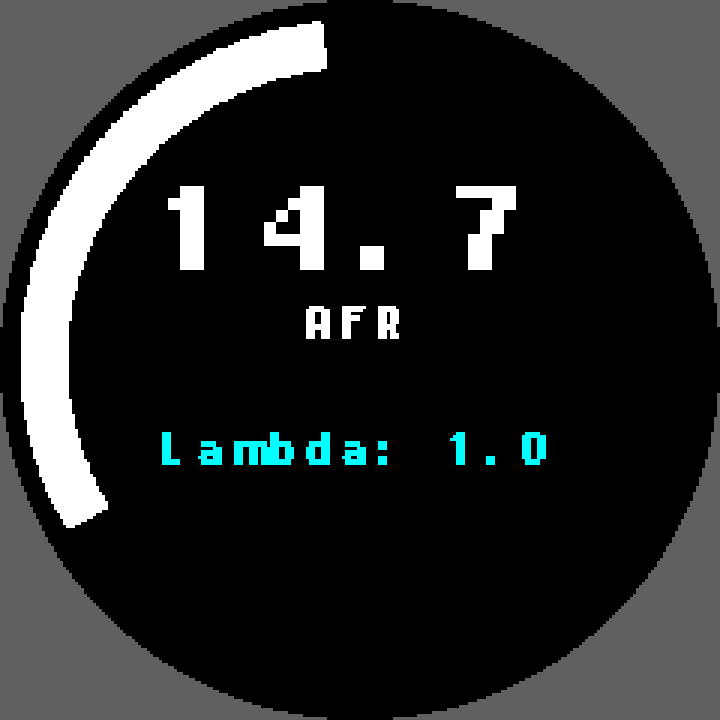
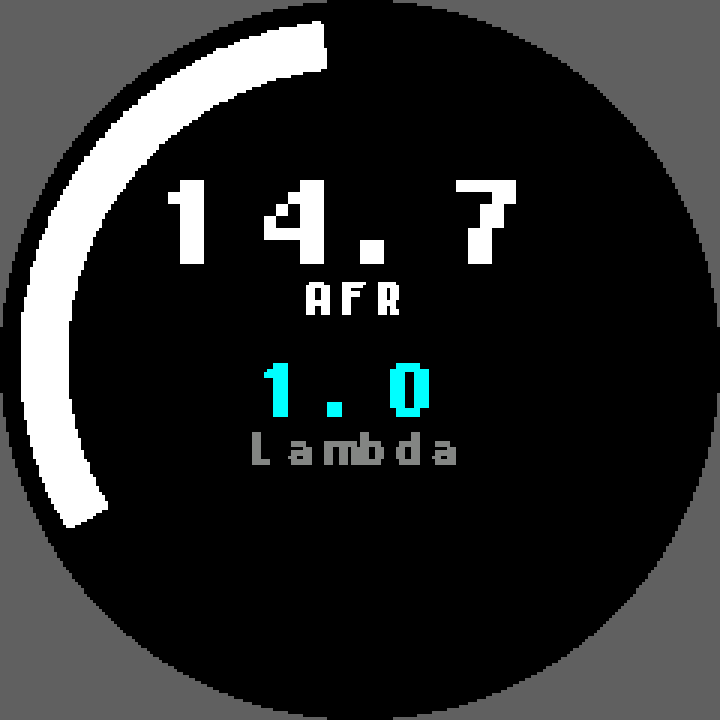
guage design changes - preview

diff --git a/src/GaugeRenderer.cpp b/src/GaugeRenderer.cpp
@@ -489,31 +489,33 @@ void renderGenericGauge(const GaugeConfig& config) {
   // the 16px face gives the value emphasis without touching the dial arc.
   // Fall back to the largest native font for longer negative values.
   if (strlen(buffer) <= 4) {
-      drawCenteredTextScaled(60, buffer, &Font_nokia_16, 2, WHITE, BLACK);
+      drawCenteredTextScaled(58, buffer, &Font_nokia_16, 2, WHITE, BLACK);
   } else {
-      drawCenteredTextFixed(64, buffer, &Font_nokia_24, WHITE, BLACK);
+      drawCenteredTextFixed(62, buffer, &Font_nokia_24, WHITE, BLACK);
   }
   
   // Custom case: dynamically adjust unit labels if handling vacuum/boost scales
   if (config.boostUnits) {
       if (mainVal < 0.0f) {
-          drawCenteredTextFixed(102, "Boost (inHg)", &Font_nokia_12, WHITE, BLACK);
+          drawCenteredTextFixed(94, "Boost (inHg)", &Font_nokia_12, WHITE, BLACK);
       } else {
-          drawCenteredTextFixed(102, "Boost (PSI)", &Font_nokia_12, WHITE, BLACK);
+          drawCenteredTextFixed(94, "Boost (PSI)", &Font_nokia_12, WHITE, BLACK);
       }
   } else {
-      drawCenteredTextFixed(102, config.unitLabel, &Font_nokia_12, WHITE, BLACK);
+      drawCenteredTextFixed(94, config.unitLabel, &Font_nokia_12, WHITE, BLACK);
   }
 
-  // Draw any active secondary readouts below the primary dial values
+  // Draw secondary metrics as vertically stacked value/label pairs. Keeping
+  // labels separate lets the useful number remain large without a long line
+  // of text running outside the circular display.
   for (uint8_t i = 0; i < config.secondaryCount; i++) {
       const SecondaryMetric& sec = config.secondaries[i];
       float secVal = getValueForSource(sec.sourceId);
       
       if (fabsf(secVal) >= 100.0f) {
-          snprintf(buffer, sizeof(buffer), "%s%.0f%s", sec.prefix, (double)secVal, sec.suffix);
+          snprintf(buffer, sizeof(buffer), "%.0f%s", (double)secVal, sec.suffix);
       } else {
-          snprintf(buffer, sizeof(buffer), "%s%.1f%s", sec.prefix, (double)secVal, sec.suffix);
+          snprintf(buffer, sizeof(buffer), "%.1f%s", (double)secVal, sec.suffix);
       }
       
       UWORD color = GBLUE;
@@ -521,9 +523,17 @@ void renderGenericGauge(const GaugeConfig& config) {
           color = waterTempColor(secVal);
       }
       
-      // Secondary metrics must remain inside the narrower lower portion of
-      // the round display; keep the primary value visually dominant.
-      drawCenteredTextFixed((UWORD)sec.posY, buffer, &Font_nokia_12, color, BLACK);
+      const UWORD valueY = config.secondaryCount <= 2 ? (UWORD)(120 + i * 54) : (UWORD)(102 + i * 44);
+      const UWORD labelY = config.secondaryCount <= 2 ? (UWORD)(144 + i * 54) : (UWORD)(124 + i * 44);
+      drawCenteredTextFixed(valueY, buffer, &Font_nokia_20, color, BLACK);
+
+      char label[sizeof(sec.prefix)];
+      snprintf(label, sizeof(label), "%s", sec.prefix);
+      size_t labelLength = strlen(label);
+      while (labelLength > 0 && (label[labelLength - 1] == ' ' || label[labelLength - 1] == ':')) {
+          label[--labelLength] = '\0';
+      }
+      drawCenteredTextFixed(labelY, label, &Font_nokia_12, GRAY, BLACK);
   }
 
   drawStatusIfNeeded(160, GRAY);
